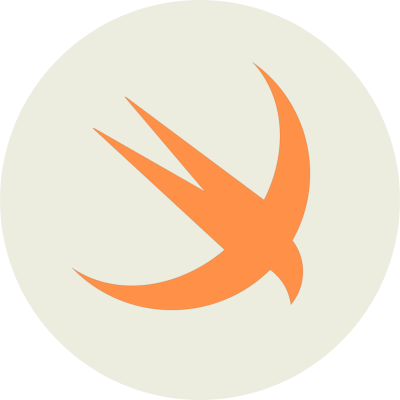
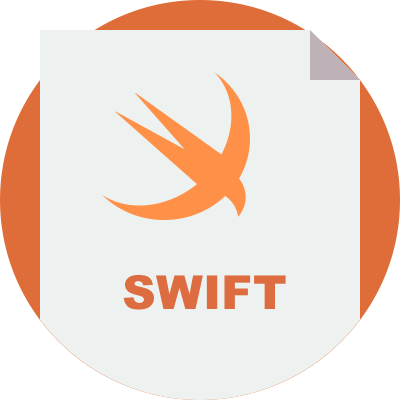
add

diff --git a/README.md b/README.md
@@ -1,6 +1,81 @@
 #FileIcons#
 
-Flat icons for files and documents. Made by <a href="http://mkaminsky11.github.io">Michael Kaminsky</a>
+Flat icons for files and documents. Made by <a href="http://mkaminsky11.github.io">Michael Kaminsky</a>.
+
+These icons were originally for the <a href="https://github.com/mkaminsky11/codeyourcloudmobile">Code Your Cloud mobile app</a>. However, I decided to release them on their own for others to use.
+
+####Arduino (new)####
+```html
+<img src="images/arduino.png" height="100px">
+```
+<img src="images/arduino.png" height="100px">
+
+####Swift (updated)####
+```html
+<img src="images/swift.png" height="100px">
+```
+<img src="images/swift.png" height="100px">
+
+####Python (new)####
+```html
+<img src="images/python.png" height="100px">
+```
+<img src="images/python.png" height="100px">
+
+####Haskell (new)####
+```html
+<img src="images/haskell.png" height="100px">
+```
+<img src="images/haskell.png" height="100px">
+
+####C++ (new)####
+```html
+<img src="images/cpp.png" height="100px">
+```
+<img src="images/cpp.png" height="100px">
+
+####C (new)####
+```html
+<img src="images/c.png" height="100px">
+```
+<img src="images/c.png" height="100px">
+
+####Server (new)####
+```html
+<img src="images/server.png" height="100px">
+```
+<img src="images/server.png" height="100px">
+
+####Dart (new)####
+```html
+<img src="images/dart.png" height="100px">
+```
+<img src="images/dart.png" height="100px">
+
+
+####Git####
+```html
+<img src="images/git.png" height="100px">
+```
+<img src="images/git.png" height="100px">
+
+####Git Folder####
+```html
+<img src="images/git_folder.png" height="100px">
+```
+<img src="images/git_folder.png" height="100px">
+
+####PHP####
+```html
+<img src="images/php.png" height="100px">
+```
+<img src="images/php.png" height="100px">
+
+####Ruby####
+```html
+<img src="images/ruby.png" height="100px">
+```
+<img src="images/ruby.png" height="100px">
 
 ####CoffeeScript####
 ```html
@@ -74,38 +149,8 @@ Flat icons for files and documents. Made by <a href="http://mkaminsky11.github.i
 ```
 <img src="images/editor.png" height="100px">
 
-####Git####
-```html
-<img src="images/git.png" height="100px">
-```
-<img src="images/git.png" height="100px">
-
-####Git Folder####
-```html
-<img src="images/git_folder.png" height="100px">
-```
-<img src="images/git_folder.png" height="100px">
-
-####PHP####
-```html
-<img src="images/php.png" height="100px">
-```
-<img src="images/php.png" height="100px">
-
-####Ruby####
-```html
-<img src="images/ruby.png" height="100px">
-```
-<img src="images/ruby.png" height="100px">
-
 ####Key####
 ```html
 <img src="images/key.png" height="100px">
 ```
 <img src="images/key.png" height="100px">
-
-####Swift####
-```html
-<img src="images/swift.png" height="100px">
-```
-<img src="images/swift.png" height="100px">
